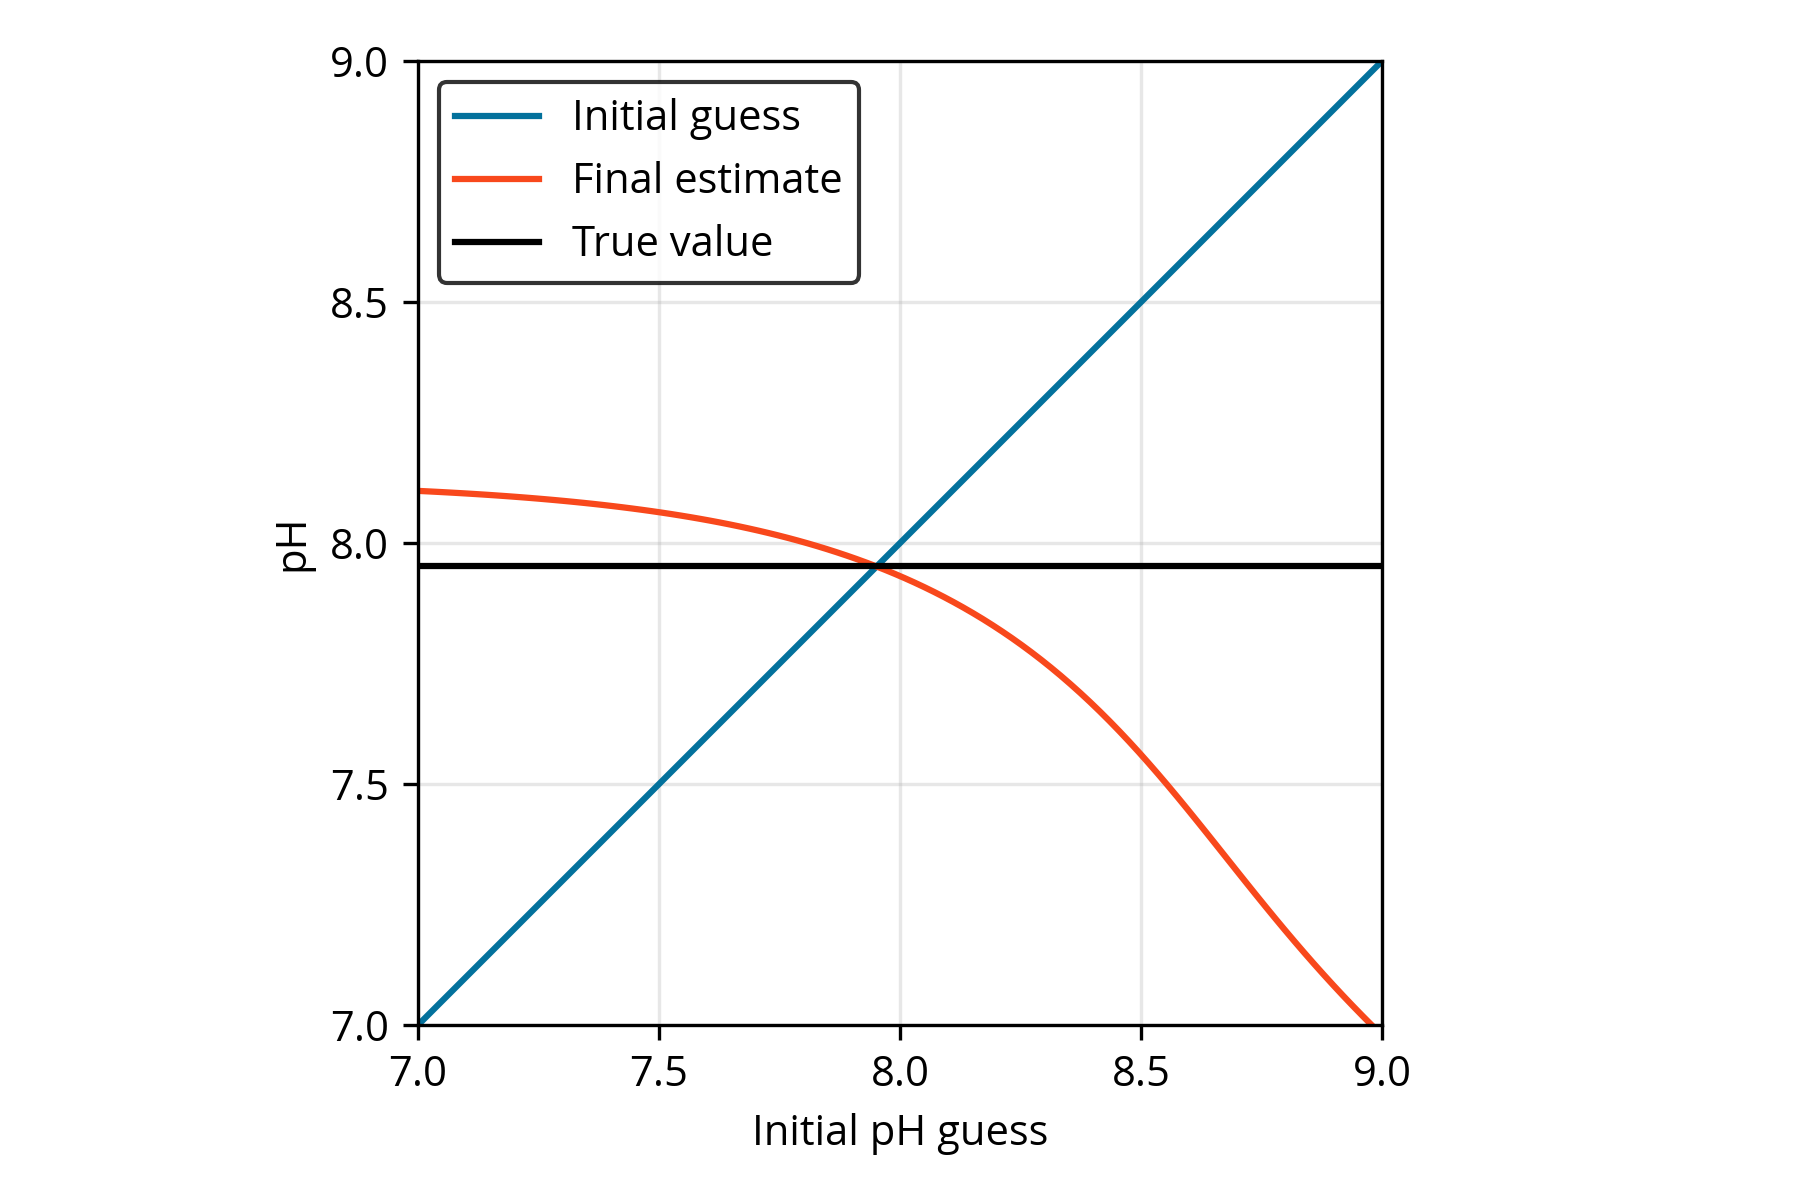
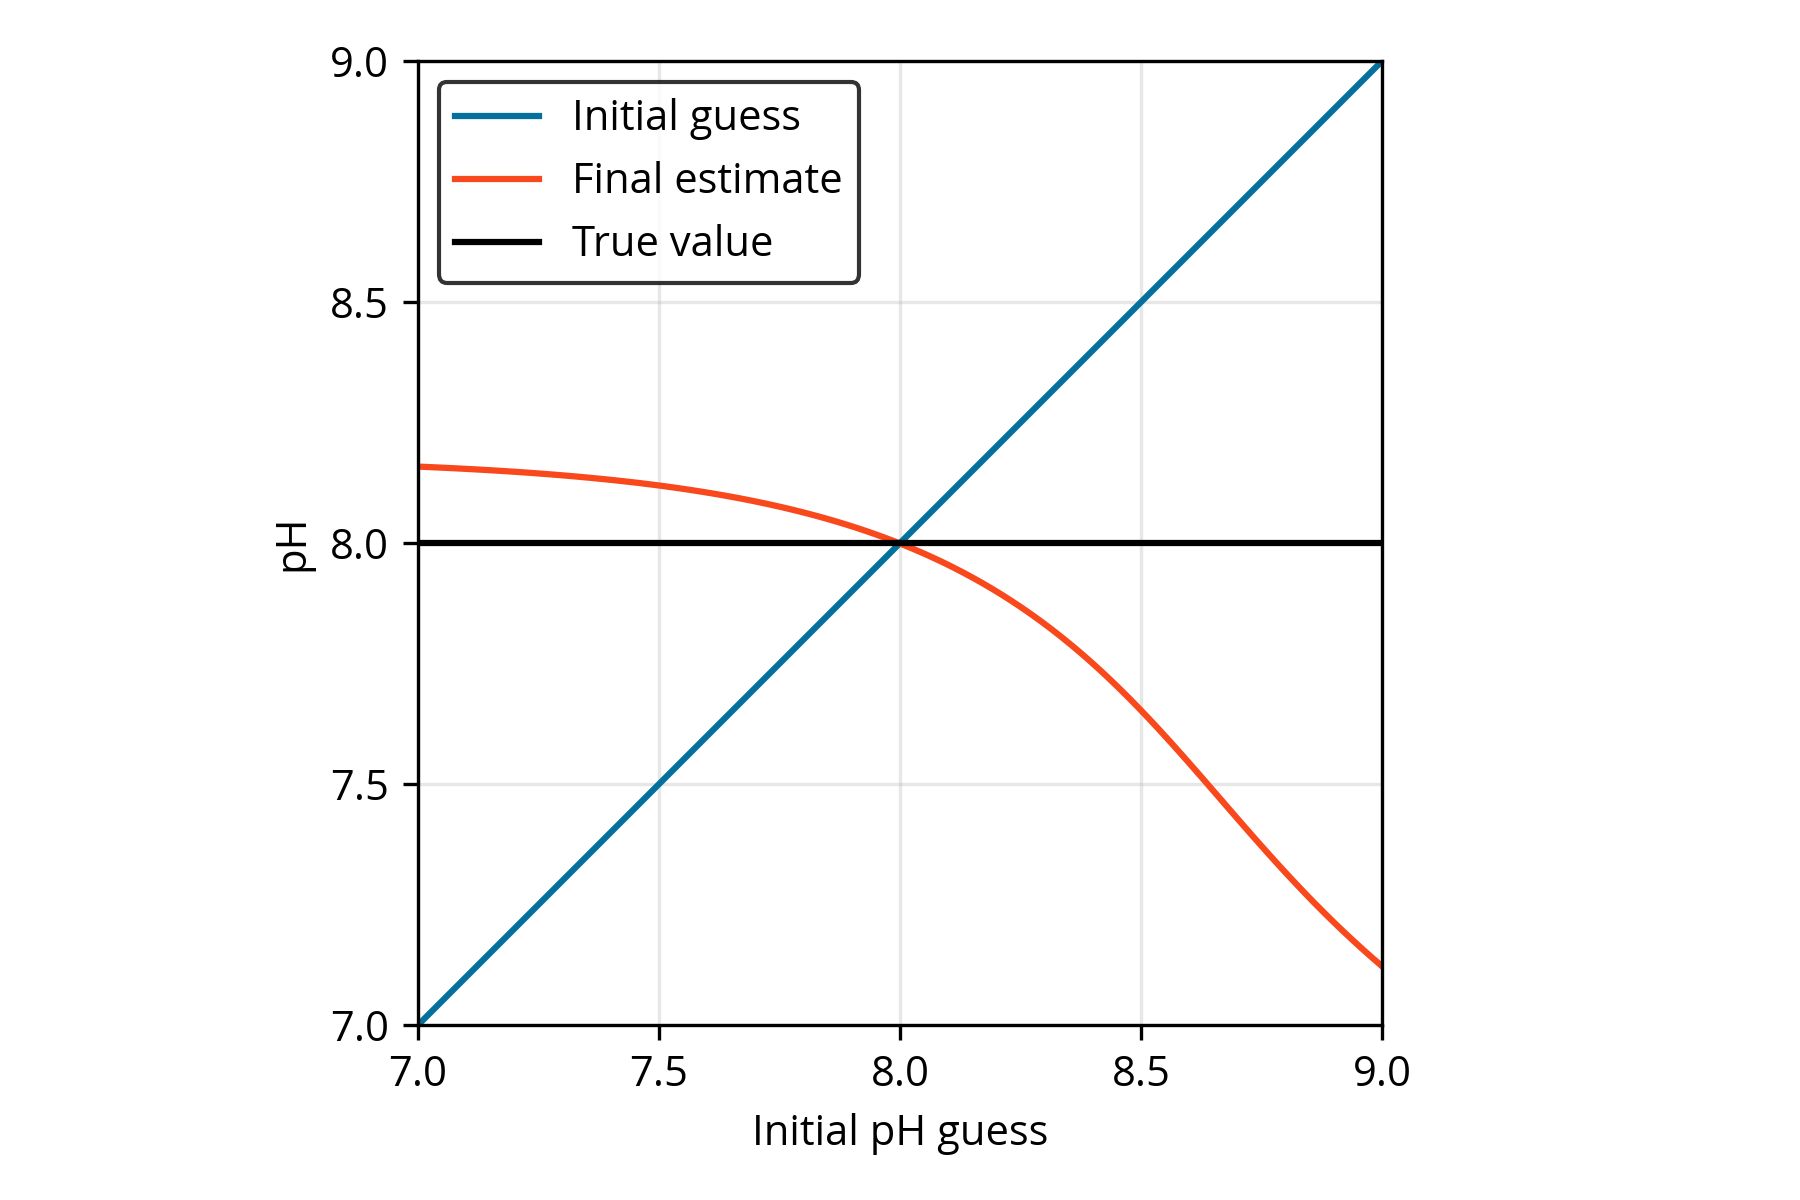
Set target pH to ~8

Changed region(s): [[0.2178, 0.37, 0.7778, 0.8325], [0.7467, 0.8325, 0.7778, 0.8633]]

diff --git a/calc_pco2.py b/calc_pco2.py
@@ -10,8 +10,8 @@ mpl.rcParams["font.size"] = mpl.rcParams["axes.titlesize"] = 10
 npts = 100
 pH_guess = np.linspace(7.0, 9.0, npts)
 alk = np.full(npts, 2300.0) * 1e-6
-dic = np.full(npts, 2050.0) * 1e-6
-tempC = np.full(npts, 25.0)
+dic = np.full(npts, 2101.0) * 1e-6
+tempC = np.full(npts, 15.0)
 pres = np.full(npts, 0.0)
 psal = np.full(npts, 35.0)
 silicate = np.full(npts, 0.0) * 1e-6
